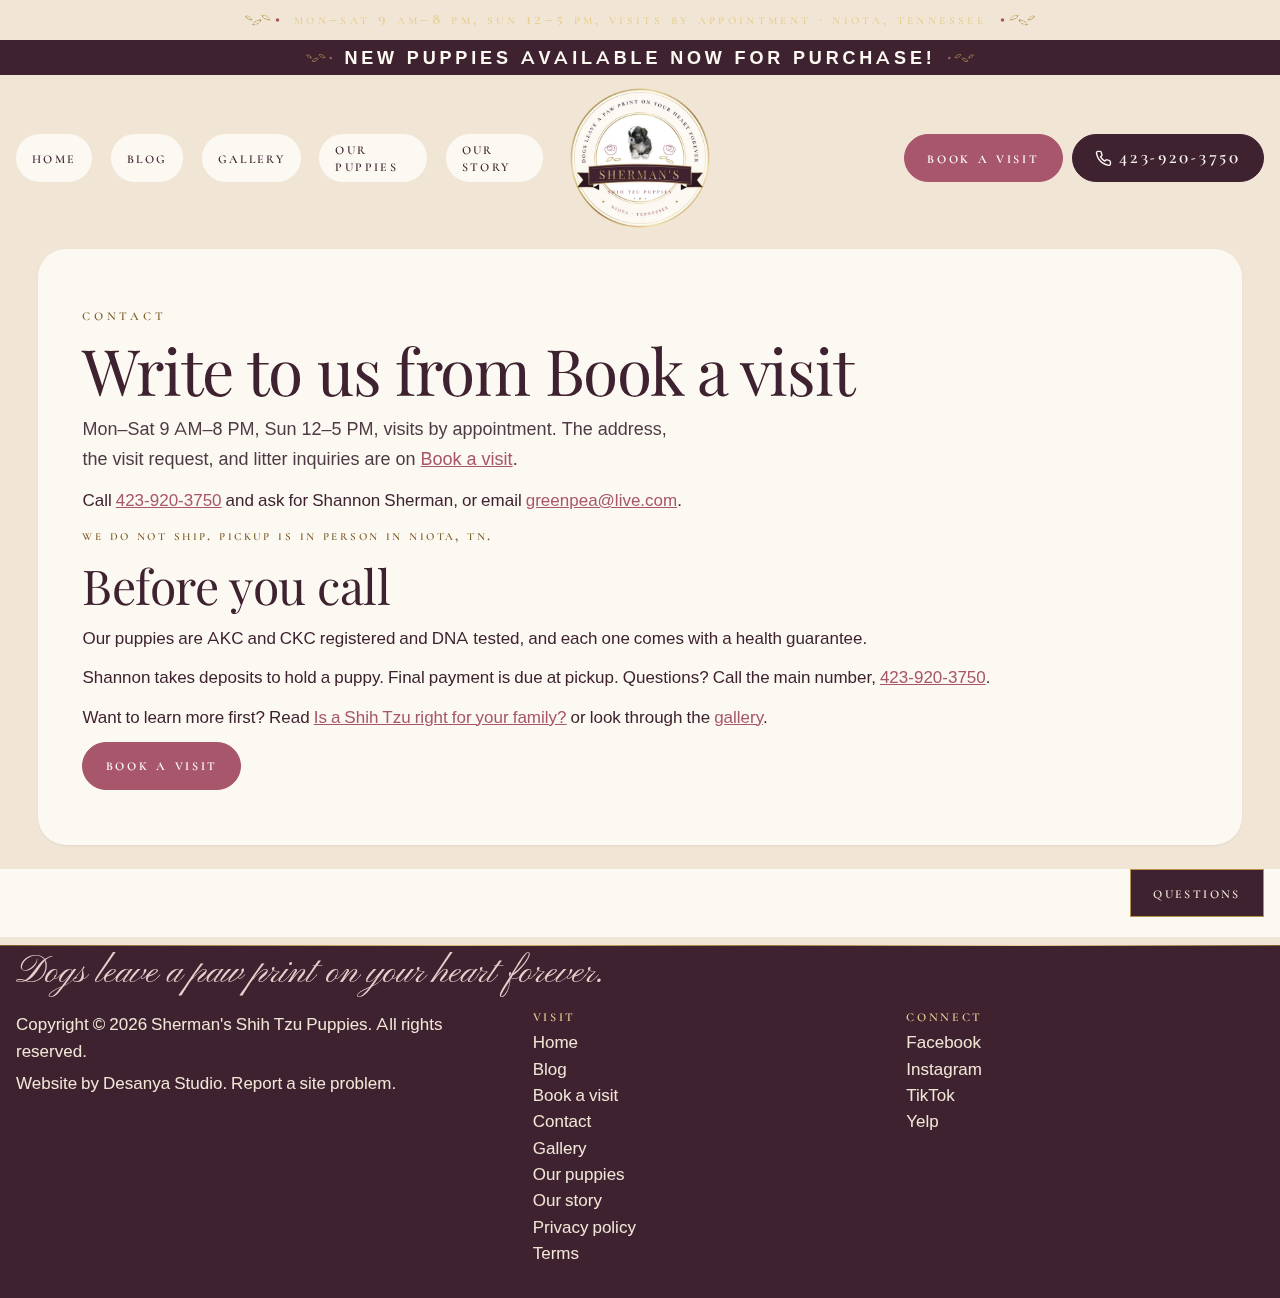
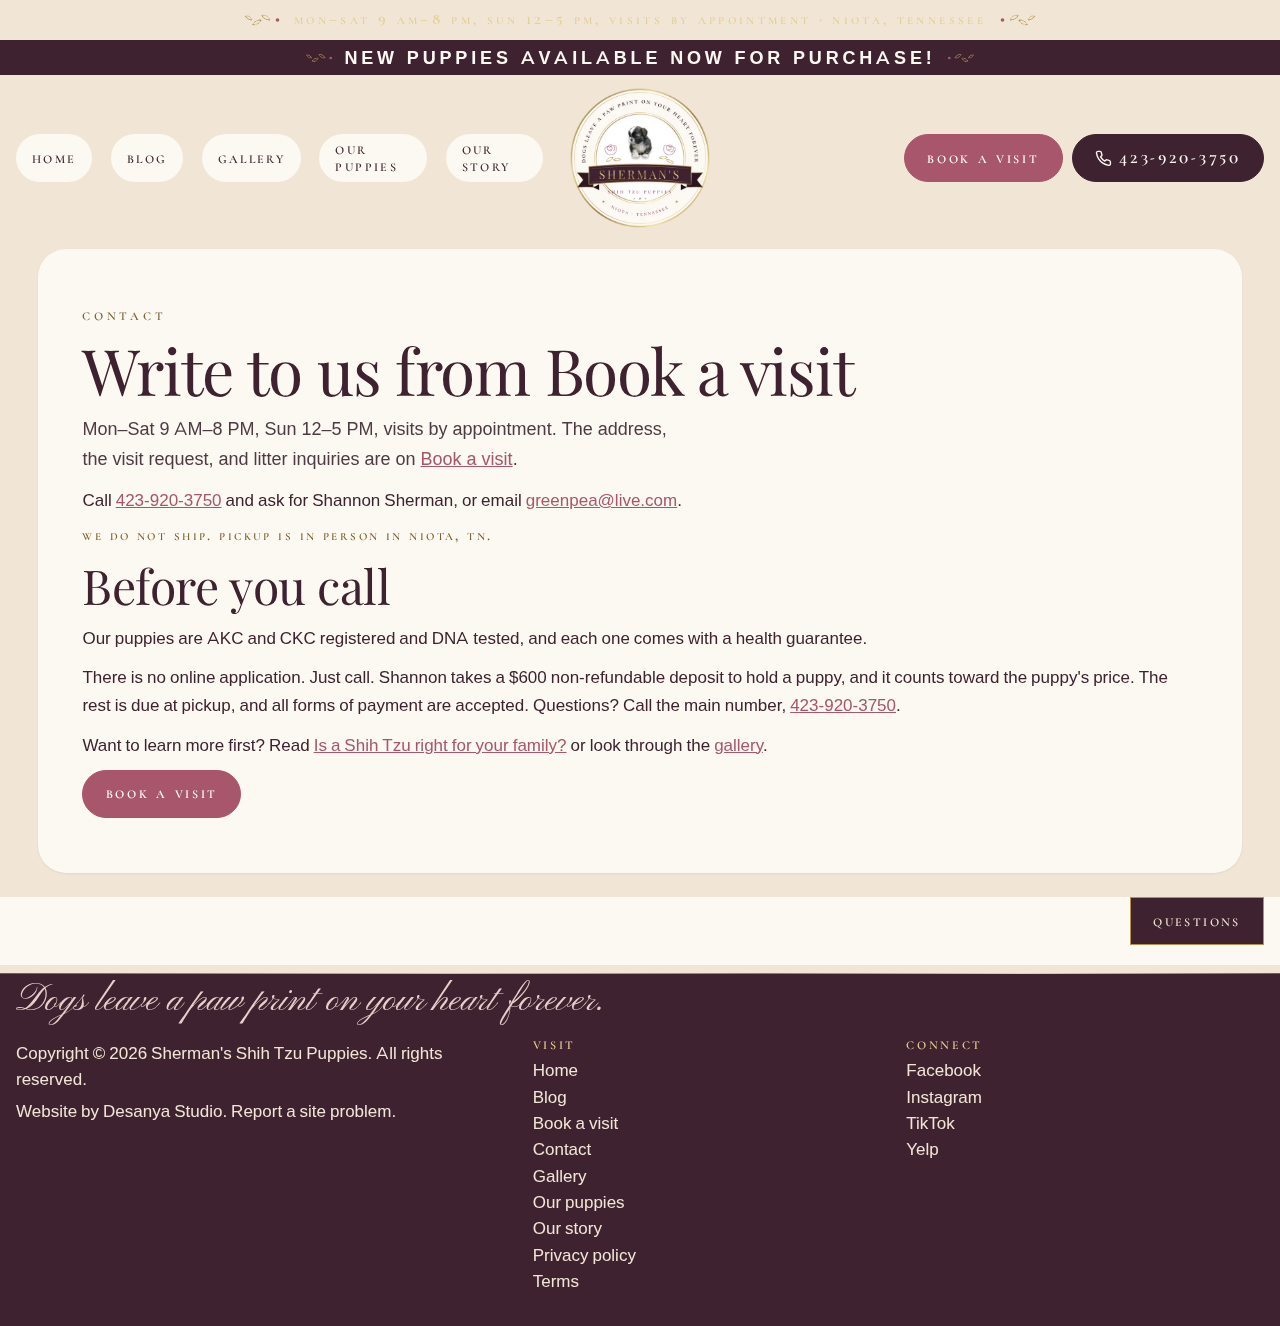
Add Cassandra's confirmed facts (Oct 27): call-only booking, $600 non-refundable deposit applied to price, all payments accepted, go-home age, shots and records, AKC limited registration, AKC DNA Program wording, waitlist by phone, AKC member; FAQ re-sorted A–Z; JSON-LD descriptions updated; book/ho

diff --git a/book.html b/book.html
@@ -37,7 +37,7 @@
     "@context": "https://schema.org",
     "@type": ["LocalBusiness", "PetStore"],
     "name": "Sherman's Shih Tzu Puppies",
-    "description": "AKC and CKC registered Shih Tzus. DNA tested, with a health guarantee. Puppies are raised in the home and handled daily. In-person visits and FaceTime visits. Pickup is in person in Niota. We do not ship. Mon–Sat 9 AM–8 PM, Sun 12–5 PM, visits by appointment.",
+    "description": "AKC and CKC registered Shih Tzus. AKC member. Parents DNA tested through the AKC DNA Program. Puppies sold with AKC limited registration. Puppies are raised in the home and handled daily and go home with their shots and records at around 6–8 weeks. $600 non-refundable deposit, applied to the puppy's price. All forms of payment accepted. Health guarantee gone over in person at pickup. In-person visits and FaceTime visits. Pickup is in person in Niota. We do not ship. Mon–Sat 9 AM–8 PM, Sun 12–5 PM, visits by appointment.",
     "url": "https://shermansshihtzupuppies.com/",
     "image": "https://shermansshihtzupuppies.com/images/og-image.jpg",
     "telephone": "+14239203750",
@@ -177,17 +177,20 @@
         <p>Ask for Shannon Sherman. Prefer a video visit? Call or text <a href="tel:+14239203750">423-920-3750</a> to set up a FaceTime visit.</p>
         <h2>How booking works</h2>
         <ol class="steps">
-          <li>Call or text <a href="tel:+14239203750">423-920-3750</a>, or send the visit request below with a preferred date and time.</li>
+          <li>Call Shannon at <a href="tel:+14239203750">423-920-3750</a>. There is no online application. You can also text or send the visit request below with a preferred date and time.</li>
           <li>Shannon calls or texts to confirm your appointment. Visits are by appointment, Mon–Sat 9 AM–8 PM and Sun 12–5 PM.</li>
           <li>Meet the puppies in person in Niota, or on a FaceTime visit.</li>
-          <li>Shannon takes a deposit to hold your puppy.</li>
-          <li>When the puppy is old enough to go home, you pick up in person. Final payment is due at pickup.</li>
+          <li>Shannon takes a $600 deposit to hold your puppy. The deposit is non-refundable and counts toward the puppy's price.</li>
+          <li>Puppies go home at around 6–8 weeks, or once they can eat soft food. You pick up in person, and the rest of the price is due at pickup. All forms of payment are accepted.</li>
         </ol>
-        <p class="fine">Pickup is in person in Niota. We do not ship.</p>
+        <p class="fine">Pickup is in person in Niota. We do not ship. No puppies available right now? Call <a href="tel:+14239203750">423-920-3750</a> to join the waitlist.</p>
         <h2>What to expect</h2>
         <ul>
           <li>Kids are welcome on visits, and there is on-site parking.</li>
-          <li>Puppies are AKC and CKC registered, DNA tested, and come with a health guarantee. They are raised in the home and handled daily.</li>
+          <li>Shannon is an AKC member. Puppies are AKC and CKC registered, and AKC puppies are sold with AKC limited registration (no breeding rights).</li>
+          <li>Our parent dogs are DNA tested through the <a href="https://www.akc.org/breeder-programs/dna/" target="_blank" rel="noopener noreferrer">AKC DNA Program</a>, at AKC's request. AKC DNA testing verifies identity and parentage. It is not a health test.</li>
+          <li>Puppies are raised in the home and handled daily, and go home with their shots and records.</li>
+          <li>Each puppy comes with a health guarantee. We go over it in person at puppy pickup.</li>
           <li>AKC registered Shih Tzu puppies: $1,600. CKC puppies: none available right now.</li>
           <li>We visit at <a href="https://www.google.com/maps/search/?api=1&amp;query=230+County+Road+263,+Niota,+TN+37826" target="_blank" rel="noopener noreferrer">230 County Road 263, Niota, TN 37826</a>, in East Tennessee near Athens.</li>
         </ul>
@@ -311,6 +314,10 @@
         <h2>Frequently asked questions</h2>
         <p>Please contact us if you cannot find an answer to your question. Call <a href="tel:+14239203750">423-920-3750</a>.</p>
         <details>
+          <summary>Are the parents DNA tested?</summary>
+          <p>Our parent dogs are DNA tested through the <a href="https://www.akc.org/breeder-programs/dna/" target="_blank" rel="noopener noreferrer">AKC DNA Program</a>, at AKC's request. AKC DNA testing verifies identity and parentage. It is not a health test.</p>
+        </details>
+        <details>
           <summary>Can I bring my kids?</summary>
           <p>Yes. Kids are welcome on visits, and there is on-site parking.</p>
         </details>
@@ -319,8 +326,20 @@
           <p>Yes. Call or text <a href="tel:+14239203750">423-920-3750</a> to set up a FaceTime visit.</p>
         </details>
         <details>
+          <summary>Do I need to fill out an application?</summary>
+          <p>No. There is no online application. Call Shannon at <a href="tel:+14239203750">423-920-3750</a>.</p>
+        </details>
+        <details>
+          <summary>Do puppies come with registration papers?</summary>
+          <p>Yes. AKC puppies are sold with AKC limited registration, which means no breeding rights.</p>
+        </details>
+        <details>
           <summary>Do you allow deposits?</summary>
-          <p>Yes. Visit and meet the puppies, then Shannon takes a deposit to hold your puppy. When the puppy is old enough to go home, you pick up in person. Final payment is due at pickup.</p>
+          <p>Yes. The deposit is $600. It is non-refundable and counts toward the puppy's price. The rest is due at pickup.</p>
+        </details>
+        <details>
+          <summary>Do you have a waitlist?</summary>
+          <p>Yes. Call <a href="tel:+14239203750">423-920-3750</a> to join it.</p>
         </details>
         <details>
           <summary>Do you ship puppies?</summary>
@@ -331,12 +350,20 @@
           <p>AKC registered Shih Tzu puppies: $1,600. CKC puppies: none available right now.</p>
         </details>
         <details>
+          <summary>How old are puppies when they go home?</summary>
+          <p>Around 6–8 weeks, or once they can eat soft food. They go home with their shots and records.</p>
+        </details>
+        <details>
           <summary>Is there a health guarantee?</summary>
-          <p>Yes. Puppies are AKC and CKC registered and DNA tested, and each one comes with a health guarantee. We will go over your health guarantee in person at puppy pickup.</p>
+          <p>Yes. Each puppy comes with a health guarantee. We will go over your health guarantee in person at puppy pickup.</p>
         </details>
         <details>
           <summary>What are your visiting hours?</summary>
           <p>Mon–Sat 9 AM–8 PM, Sun 12–5 PM, visits by appointment.</p>
+        </details>
+        <details>
+          <summary>What forms of payment do you accept?</summary>
+          <p>All forms of payment.</p>
         </details>
       </div>
     </section>

diff --git a/index.html b/index.html
@@ -38,7 +38,7 @@
     "@context": "https://schema.org",
     "@type": ["LocalBusiness", "PetStore"],
     "name": "Sherman's Shih Tzu Puppies",
-    "description": "AKC and CKC registered Shih Tzus. DNA tested, with a health guarantee. Puppies are raised in the home and handled daily. In-person visits and FaceTime visits. Pickup is in person in Niota. We do not ship. Mon–Sat 9 AM–8 PM, Sun 12–5 PM, visits by appointment.",
+    "description": "AKC and CKC registered Shih Tzus. AKC member. Parents DNA tested through the AKC DNA Program. Puppies sold with AKC limited registration. Puppies are raised in the home and handled daily and go home with their shots and records at around 6–8 weeks. $600 non-refundable deposit, applied to the puppy's price. All forms of payment accepted. Health guarantee gone over in person at pickup. In-person visits and FaceTime visits. Pickup is in person in Niota. We do not ship. Mon–Sat 9 AM–8 PM, Sun 12–5 PM, visits by appointment.",
     "url": "https://shermansshihtzupuppies.com/",
     "image": "https://shermansshihtzupuppies.com/images/og-image.jpg",
     "telephone": "+14239203750",
@@ -289,7 +289,7 @@
           </article>
           <article class="card">
             <h3>Healthy, pure bloodline</h3>
-            <p>All of our Shih Tzus are AKC and CKC registered. Our Shih Tzus are DNA tested, and all puppies come with a health guarantee. Choose us, and choose peace of mind.</p>
+            <p>All of our Shih Tzus are AKC and CKC registered. Our parent dogs are DNA tested through the AKC DNA Program at AKC's request, and all puppies come with a health guarantee. Choose us, and choose peace of mind.</p>
           </article>
           <article class="card">
             <h3>Your forever friend</h3>
@@ -373,7 +373,7 @@
           </article>
           <article class="card">
             <h3>Wait list</h3>
-            <p>When we don't have puppies available, we keep a wait list. Call or write, and we'll let you know when the next litter is ready to visit.</p>
+            <p>When we don't have puppies available, we keep a wait list. Call <a href="tel:+14239203750">423-920-3750</a> to join it, and we'll let you know when the next litter is ready to visit.</p>
           </article>
         </div>
         <p class="actions center">

diff --git a/contact.html b/contact.html
@@ -37,7 +37,7 @@
     "@context": "https://schema.org",
     "@type": ["LocalBusiness", "PetStore"],
     "name": "Sherman's Shih Tzu Puppies",
-    "description": "AKC and CKC registered Shih Tzus. DNA tested, with a health guarantee. Puppies are raised in the home and handled daily. In-person visits and FaceTime visits. Pickup is in person in Niota. We do not ship. Mon–Sat 9 AM–8 PM, Sun 12–5 PM, visits by appointment.",
+    "description": "AKC and CKC registered Shih Tzus. AKC member. Parents DNA tested through the AKC DNA Program. Puppies sold with AKC limited registration. Puppies are raised in the home and handled daily and go home with their shots and records at around 6–8 weeks. $600 non-refundable deposit, applied to the puppy's price. All forms of payment accepted. Health guarantee gone over in person at pickup. In-person visits and FaceTime visits. Pickup is in person in Niota. We do not ship. Mon–Sat 9 AM–8 PM, Sun 12–5 PM, visits by appointment.",
     "url": "https://shermansshihtzupuppies.com/",
     "image": "https://shermansshihtzupuppies.com/images/og-image.jpg",
     "telephone": "+14239203750",
@@ -160,7 +160,7 @@
         <p class="fine">We do not ship. Pickup is in person in Niota, TN.</p>
         <h2>Before you call</h2>
         <p>Our puppies are AKC and CKC registered and DNA tested, and each one comes with a health guarantee.</p>
-        <p>Shannon takes deposits to hold a puppy. Final payment is due at pickup. Questions? Call the main number, <a href="tel:+14239203750">423-920-3750</a>.</p>
+        <p>There is no online application. Just call. Shannon takes a $600 non-refundable deposit to hold a puppy, and it counts toward the puppy's price. The rest is due at pickup, and all forms of payment are accepted. Questions? Call the main number, <a href="tel:+14239203750">423-920-3750</a>.</p>
         <p>Want to learn more first? Read <a href="blog/is-a-shih-tzu-right-for-your-family/">Is a Shih Tzu right for your family?</a> or look through the <a href="gallery.html">gallery</a>.</p>
         <p><a class="btn btn-primary" href="book.html">Book a visit</a></p>
       </div>

diff --git a/blog/_template/index.html b/blog/_template/index.html
@@ -38,7 +38,7 @@
     "@context": "https://schema.org",
     "@type": ["LocalBusiness", "PetStore"],
     "name": "Sherman's Shih Tzu Puppies",
-    "description": "AKC and CKC registered Shih Tzus. DNA tested, with a health guarantee. Puppies are raised in the home and handled daily. In-person visits and FaceTime visits. Pickup is in person in Niota. We do not ship. Mon–Sat 9 AM–8 PM, Sun 12–5 PM, visits by appointment.",
+    "description": "AKC and CKC registered Shih Tzus. AKC member. Parents DNA tested through the AKC DNA Program. Puppies sold with AKC limited registration. Puppies are raised in the home and handled daily and go home with their shots and records at around 6–8 weeks. $600 non-refundable deposit, applied to the puppy's price. All forms of payment accepted. Health guarantee gone over in person at pickup. In-person visits and FaceTime visits. Pickup is in person in Niota. We do not ship. Mon–Sat 9 AM–8 PM, Sun 12–5 PM, visits by appointment.",
     "url": "https://shermansshihtzupuppies.com/",
     "image": "https://shermansshihtzupuppies.com/images/og-image.jpg",
     "telephone": "+14239203750",

diff --git a/blog/how-much-does-a-shih-tzu-puppy-cost/index.html b/blog/how-much-does-a-shih-tzu-puppy-cost/index.html
@@ -37,7 +37,7 @@
     "@context": "https://schema.org",
     "@type": ["LocalBusiness", "PetStore"],
     "name": "Sherman's Shih Tzu Puppies",
-    "description": "AKC and CKC registered Shih Tzus. DNA tested, with a health guarantee. Puppies are raised in the home and handled daily. In-person visits and FaceTime visits. Pickup is in person in Niota. We do not ship. Mon–Sat 9 AM–8 PM, Sun 12–5 PM, visits by appointment.",
+    "description": "AKC and CKC registered Shih Tzus. AKC member. Parents DNA tested through the AKC DNA Program. Puppies sold with AKC limited registration. Puppies are raised in the home and handled daily and go home with their shots and records at around 6–8 weeks. $600 non-refundable deposit, applied to the puppy's price. All forms of payment accepted. Health guarantee gone over in person at pickup. In-person visits and FaceTime visits. Pickup is in person in Niota. We do not ship. Mon–Sat 9 AM–8 PM, Sun 12–5 PM, visits by appointment.",
     "url": "https://shermansshihtzupuppies.com/",
     "image": "https://shermansshihtzupuppies.com/images/og-image.jpg",
     "telephone": "+14239203750",

diff --git a/blog/imperial-and-teacup-shih-tzu-explained/index.html b/blog/imperial-and-teacup-shih-tzu-explained/index.html
@@ -37,7 +37,7 @@
     "@context": "https://schema.org",
     "@type": ["LocalBusiness", "PetStore"],
     "name": "Sherman's Shih Tzu Puppies",
-    "description": "AKC and CKC registered Shih Tzus. DNA tested, with a health guarantee. Puppies are raised in the home and handled daily. In-person visits and FaceTime visits. Pickup is in person in Niota. We do not ship. Mon–Sat 9 AM–8 PM, Sun 12–5 PM, visits by appointment.",
+    "description": "AKC and CKC registered Shih Tzus. AKC member. Parents DNA tested through the AKC DNA Program. Puppies sold with AKC limited registration. Puppies are raised in the home and handled daily and go home with their shots and records at around 6–8 weeks. $600 non-refundable deposit, applied to the puppy's price. All forms of payment accepted. Health guarantee gone over in person at pickup. In-person visits and FaceTime visits. Pickup is in person in Niota. We do not ship. Mon–Sat 9 AM–8 PM, Sun 12–5 PM, visits by appointment.",
     "url": "https://shermansshihtzupuppies.com/",
     "image": "https://shermansshihtzupuppies.com/images/og-image.jpg",
     "telephone": "+14239203750",

diff --git a/blog/index.html b/blog/index.html
@@ -37,7 +37,7 @@
     "@context": "https://schema.org",
     "@type": ["LocalBusiness", "PetStore"],
     "name": "Sherman's Shih Tzu Puppies",
-    "description": "AKC and CKC registered Shih Tzus. DNA tested, with a health guarantee. Puppies are raised in the home and handled daily. In-person visits and FaceTime visits. Pickup is in person in Niota. We do not ship. Mon–Sat 9 AM–8 PM, Sun 12–5 PM, visits by appointment.",
+    "description": "AKC and CKC registered Shih Tzus. AKC member. Parents DNA tested through the AKC DNA Program. Puppies sold with AKC limited registration. Puppies are raised in the home and handled daily and go home with their shots and records at around 6–8 weeks. $600 non-refundable deposit, applied to the puppy's price. All forms of payment accepted. Health guarantee gone over in person at pickup. In-person visits and FaceTime visits. Pickup is in person in Niota. We do not ship. Mon–Sat 9 AM–8 PM, Sun 12–5 PM, visits by appointment.",
     "url": "https://shermansshihtzupuppies.com/",
     "image": "https://shermansshihtzupuppies.com/images/og-image.jpg",
     "telephone": "+14239203750",

diff --git a/blog/is-a-shih-tzu-right-for-your-family/index.html b/blog/is-a-shih-tzu-right-for-your-family/index.html
@@ -37,7 +37,7 @@
     "@context": "https://schema.org",
     "@type": ["LocalBusiness", "PetStore"],
     "name": "Sherman's Shih Tzu Puppies",
-    "description": "AKC and CKC registered Shih Tzus. DNA tested, with a health guarantee. Puppies are raised in the home and handled daily. In-person visits and FaceTime visits. Pickup is in person in Niota. We do not ship. Mon–Sat 9 AM–8 PM, Sun 12–5 PM, visits by appointment.",
+    "description": "AKC and CKC registered Shih Tzus. AKC member. Parents DNA tested through the AKC DNA Program. Puppies sold with AKC limited registration. Puppies are raised in the home and handled daily and go home with their shots and records at around 6–8 weeks. $600 non-refundable deposit, applied to the puppy's price. All forms of payment accepted. Health guarantee gone over in person at pickup. In-person visits and FaceTime visits. Pickup is in person in Niota. We do not ship. Mon–Sat 9 AM–8 PM, Sun 12–5 PM, visits by appointment.",
     "url": "https://shermansshihtzupuppies.com/",
     "image": "https://shermansshihtzupuppies.com/images/og-image.jpg",
     "telephone": "+14239203750",

diff --git a/blog/shih-tzu-puppies-for-sale-near-knoxville-chattanooga-athens-tn/index.html b/blog/shih-tzu-puppies-for-sale-near-knoxville-chattanooga-athens-tn/index.html
@@ -37,7 +37,7 @@
     "@context": "https://schema.org",
     "@type": ["LocalBusiness", "PetStore"],
     "name": "Sherman's Shih Tzu Puppies",
-    "description": "AKC and CKC registered Shih Tzus. DNA tested, with a health guarantee. Puppies are raised in the home and handled daily. In-person visits and FaceTime visits. Pickup is in person in Niota. We do not ship. Mon–Sat 9 AM–8 PM, Sun 12–5 PM, visits by appointment.",
+    "description": "AKC and CKC registered Shih Tzus. AKC member. Parents DNA tested through the AKC DNA Program. Puppies sold with AKC limited registration. Puppies are raised in the home and handled daily and go home with their shots and records at around 6–8 weeks. $600 non-refundable deposit, applied to the puppy's price. All forms of payment accepted. Health guarantee gone over in person at pickup. In-person visits and FaceTime visits. Pickup is in person in Niota. We do not ship. Mon–Sat 9 AM–8 PM, Sun 12–5 PM, visits by appointment.",
     "url": "https://shermansshihtzupuppies.com/",
     "image": "https://shermansshihtzupuppies.com/images/og-image.jpg",
     "telephone": "+14239203750",

diff --git a/blog/shih-tzu-puppy-care-101/index.html b/blog/shih-tzu-puppy-care-101/index.html
@@ -37,7 +37,7 @@
     "@context": "https://schema.org",
     "@type": ["LocalBusiness", "PetStore"],
     "name": "Sherman's Shih Tzu Puppies",
-    "description": "AKC and CKC registered Shih Tzus. DNA tested, with a health guarantee. Puppies are raised in the home and handled daily. In-person visits and FaceTime visits. Pickup is in person in Niota. We do not ship. Mon–Sat 9 AM–8 PM, Sun 12–5 PM, visits by appointment.",
+    "description": "AKC and CKC registered Shih Tzus. AKC member. Parents DNA tested through the AKC DNA Program. Puppies sold with AKC limited registration. Puppies are raised in the home and handled daily and go home with their shots and records at around 6–8 weeks. $600 non-refundable deposit, applied to the puppy's price. All forms of payment accepted. Health guarantee gone over in person at pickup. In-person visits and FaceTime visits. Pickup is in person in Niota. We do not ship. Mon–Sat 9 AM–8 PM, Sun 12–5 PM, visits by appointment.",
     "url": "https://shermansshihtzupuppies.com/",
     "image": "https://shermansshihtzupuppies.com/images/og-image.jpg",
     "telephone": "+14239203750",

diff --git a/gallery.html b/gallery.html
@@ -39,7 +39,7 @@
     "@context": "https://schema.org",
     "@type": ["LocalBusiness", "PetStore"],
     "name": "Sherman's Shih Tzu Puppies",
-    "description": "AKC and CKC registered Shih Tzus. DNA tested, with a health guarantee. Puppies are raised in the home and handled daily. In-person visits and FaceTime visits. Pickup is in person in Niota. We do not ship. Mon–Sat 9 AM–8 PM, Sun 12–5 PM, visits by appointment.",
+    "description": "AKC and CKC registered Shih Tzus. AKC member. Parents DNA tested through the AKC DNA Program. Puppies sold with AKC limited registration. Puppies are raised in the home and handled daily and go home with their shots and records at around 6–8 weeks. $600 non-refundable deposit, applied to the puppy's price. All forms of payment accepted. Health guarantee gone over in person at pickup. In-person visits and FaceTime visits. Pickup is in person in Niota. We do not ship. Mon–Sat 9 AM–8 PM, Sun 12–5 PM, visits by appointment.",
     "url": "https://shermansshihtzupuppies.com/",
     "image": "https://shermansshihtzupuppies.com/images/og-image.jpg",
     "telephone": "+14239203750",

diff --git a/privacy.html b/privacy.html
@@ -37,7 +37,7 @@
     "@context": "https://schema.org",
     "@type": ["LocalBusiness", "PetStore"],
     "name": "Sherman's Shih Tzu Puppies",
-    "description": "AKC and CKC registered Shih Tzus. DNA tested, with a health guarantee. Puppies are raised in the home and handled daily. In-person visits and FaceTime visits. Pickup is in person in Niota. We do not ship. Mon–Sat 9 AM–8 PM, Sun 12–5 PM, visits by appointment.",
+    "description": "AKC and CKC registered Shih Tzus. AKC member. Parents DNA tested through the AKC DNA Program. Puppies sold with AKC limited registration. Puppies are raised in the home and handled daily and go home with their shots and records at around 6–8 weeks. $600 non-refundable deposit, applied to the puppy's price. All forms of payment accepted. Health guarantee gone over in person at pickup. In-person visits and FaceTime visits. Pickup is in person in Niota. We do not ship. Mon–Sat 9 AM–8 PM, Sun 12–5 PM, visits by appointment.",
     "url": "https://shermansshihtzupuppies.com/",
     "image": "https://shermansshihtzupuppies.com/images/og-image.jpg",
     "telephone": "+14239203750",
